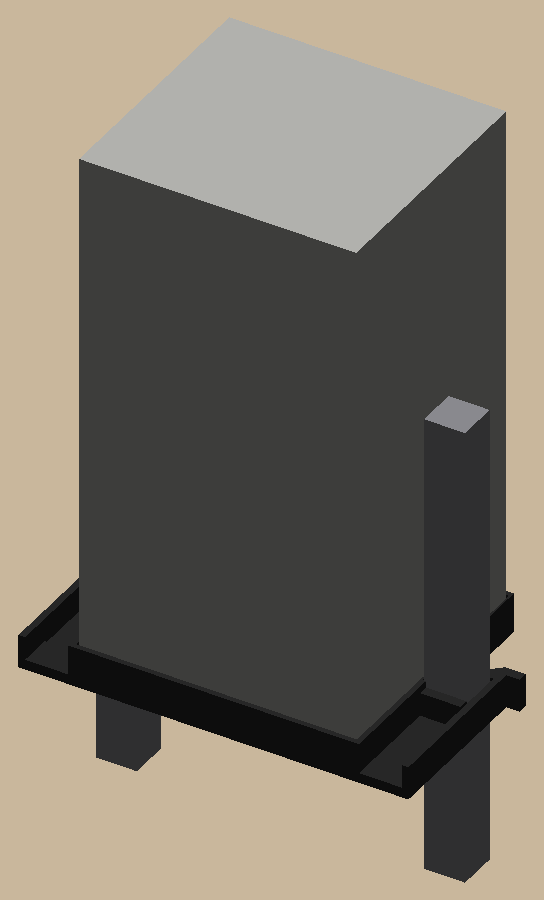
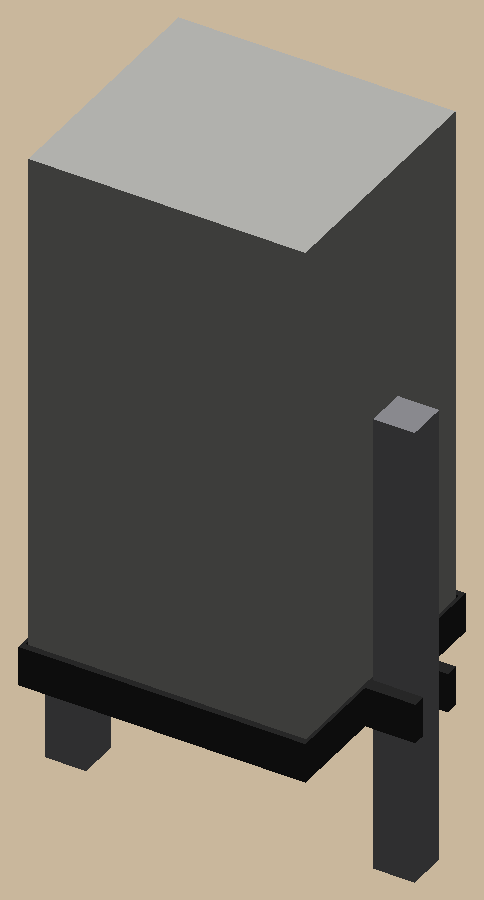
Speaker shelf: just a tray with a U on each side opening out, twisted onto the rails (no arms or hooks)

diff --git a/examples/speaker-shelf/tests/test_shelf.py b/examples/speaker-shelf/tests/test_shelf.py
@@ -1,17 +1,15 @@
-"""The shelf: print rules, the clip sizes, the speaker fit, and the rails going in. Expectations from params."""
+"""The shelf: print rules, the U's, the speaker fit, the rails in the U's. Expectations from params."""
 import pytest
 from build123d import Align, Box, Pos
 
 from cadkit.checks import downward_faces, off_layer_z, open_edges, printable_problems
 from cadkit.clash import find_clashes
 from speaker_shelf.assembly import placed_parts, rail_boxes, speaker_box
-from speaker_shelf.parts import hook_end_y, shelf, shelf_body
-from speaker_shelf.params import P
-
-PLAY = min(P.rail_clear, (P.clip_gap - P.rail_gap) / 2 + P.arm_gap)  # side to side, each way
-REAL_OUTER = P.rail_gap / 2 + P.rail  # the real rails' outer faces
+from speaker_shelf.parts import shelf, shelf_body
+from speaker_shelf.params import P, side_wall
 
 R = P.rail / 2
+MID = P.wall_h / 2 + 0.3  # probe height, clear of the floor
 
 
 @pytest.fixture(scope="module")
@@ -23,12 +21,20 @@ def _box(x0, x1, y0, y1, z0, z1):
     return Pos(x0, y0, z0) * Box(x1 - x0, y1 - y0, z1 - z0, align=(Align.MIN,) * 3)
 
 
+def _pieces(part, probe, axis):
+    return sorted((s.bounding_box() for s in (part & probe).solids()), key=lambda b: getattr(b.min, axis))
+
+
 def test_prints_flat_watertight_on_layers_no_supports():
     part = shelf(P)
     assert printable_problems(part, P.printer) == []
     assert open_edges(part) == 0
     assert off_layer_z(part, P.printer) == []
-    assert [f for f in downward_faces(part) if f.center().Z > 0.01] == []
+    assert [z for z, _ in downward_faces(part) if z > 0.01] == []
+
+
+def test_side_walls_print_at_least_two_lines():
+    assert side_wall(P) >= 2 * P.printer.nozzle
 
 
 def test_nothing_clashes_rails_speaker_shelf():
@@ -36,87 +42,47 @@ def test_nothing_clashes_rails_speaker_shelf():
 
 
 def test_too_big_a_rail_clashes():
-    """The clash test can fail: a rail 0.5 mm fatter than the clip runs into the jaw and the hook."""
-    fat = rail_boxes(P, extra=0.5)
-    assert find_clashes([("shelf", shelf_body(P))] + fat) != []
-
-
-@pytest.mark.parametrize("shift", [PLAY, -PLAY])
-def test_shelf_slides_side_to_side_within_its_play(shift):
-    assert find_clashes([("shelf", Pos(shift, 0, 0) * shelf_body(P))] + rail_boxes(P)) == []
-
-
-@pytest.mark.parametrize("shift", [PLAY + 0.3, -PLAY - 0.3])
-def test_play_is_no_more_than_that(shift):
-    assert find_clashes([("shelf", Pos(shift, 0, 0) * shelf_body(P))] + rail_boxes(P)) != []
-
-
-def test_clips_have_about_a_millimetre_of_play():
-    assert (P.clip_gap - P.rail_gap) / 2 == pytest.approx(1.0)
-    assert P.arm_gap + (P.clip_gap - P.rail_gap) / 2 >= P.rail_clear  # the floor stops it before an arm would
+    """The clash test can fail: a rail 0.5 mm fatter than the U runs into it."""
+    assert find_clashes([("shelf", shelf_body(P))] + rail_boxes(P, extra=0.5)) != []
 
 
 @pytest.mark.parametrize("side", [1, -1])
-def test_jaw_to_hook_is_the_fit_tested_size(body, side):
-    """Along y through the clip, between the front jaw and the hook: exactly p.rail of air."""
-    x = side * (REAL_OUTER - 1)
-    probe = _box(x - 0.05, x + 0.05, -R - P.jaw_t - 1, R + 3, P.clip_h / 2, P.clip_h / 2 + 0.1)
-    pieces = sorted((s.bounding_box() for s in (body & probe).solids()), key=lambda b: b.min.Y)
+def test_u_is_the_fit_tested_size(body, side):
+    """Across the U, front to back, at the middle of the rail: p.rail of air between the prongs."""
+    x = side * (P.rail_gap / 2 + P.rail_deep / 2)
+    pieces = _pieces(body, _box(x - 0.05, x + 0.05, -20, 20, MID, MID + 0.1), "Y")
     assert len(pieces) == 2
     assert pieces[1].min.Y - pieces[0].max.Y == pytest.approx(P.rail, abs=0.01)
 
 
+def test_u_bottoms_are_the_rail_gap_apart(body):
+    """Along x through the rails' line: the tray's side faces (the U bottoms) span exactly rail_gap."""
+    pieces = _pieces(body, _box(-80, 80, -0.05, 0.05, MID, MID + 0.1), "X")
+    assert pieces[0].min.X == pytest.approx(-P.rail_gap / 2, abs=0.01)
+    assert pieces[-1].max.X == pytest.approx(P.rail_gap / 2, abs=0.01)
+
+
 @pytest.mark.parametrize("side", [1, -1])
-def test_hook_reaches_behind_the_real_rail(body, side):
-    xo = REAL_OUTER
-    behind = _box(min(side * xo, side * (xo - P.rail)), max(side * xo, side * (xo - P.rail)), R, R + 0.5, 0, P.clip_h)
-    covered = (body & behind).bounding_box()
-    assert covered.size.X == pytest.approx(P.hook_depth - (P.clip_gap - P.rail_gap) / 2, abs=0.01)
-    assert covered.size.X - PLAY >= 3.5  # still a good bite with the shelf shifted away
+def test_prongs_reach_past_the_rail(body, side):
+    reach = abs(body.bounding_box().max.X if side > 0 else body.bounding_box().min.X)
+    assert reach == pytest.approx(P.rail_gap / 2 + P.rail_deep + P.prong_reach, abs=0.01)
+
+
+@pytest.mark.parametrize("side", [1, -1])
+def test_u_opens_outward(body, side):
+    """Nothing closes the U on its outer side: a rail-sized box from the rail out to beyond the prongs is all air."""
+    x0 = P.rail_gap / 2
+    lane = _box(x0, x0 + 40, -R, R, -1, 30) if side > 0 else _box(-x0 - 40, -x0, -R, R, -1, 30)
+    assert (body & lane).volume == pytest.approx(0, abs=1e-6)
 
 
 def test_pocket_fits_the_speaker_with_clearance(body):
-    """A probe across the pocket at mid-wall height: the air is the speaker plus clearance both ways."""
-    z = (P.floor_t + P.wall_h) / 2
-    cy = -P.speaker_d / 3  # in front of the rails, where the pocket has side walls
-    across = sorted((s.bounding_box() for s in (body & _box(-60, 60, cy - 0.05, cy + 0.05, z, z + 0.1)).solids()),
-                    key=lambda b: b.min.X)
-    inner = [b for b in across if abs(b.center().X) < P.rail_gap / 2]
-    assert inner[1].min.X - inner[0].max.X == pytest.approx(P.speaker_w + 2 * P.speaker_clear, abs=0.01)
-    deep = sorted((s.bounding_box() for s in (body & _box(-0.05, 0.05, -90, 90, z, z + 0.1)).solids()),
-                  key=lambda b: b.min.Y)
+    across = _pieces(body, _box(-60, 60, -P.speaker_d / 3, -P.speaker_d / 3 + 0.1, MID, MID + 0.1), "X")
+    assert across[1].min.X - across[0].max.X == pytest.approx(P.speaker_w + 2 * P.speaker_clear, abs=0.01)
+    deep = _pieces(body, _box(-0.05, 0.05, -90, 90, MID, MID + 0.1), "Y")
     assert deep[1].min.Y - deep[0].max.Y == pytest.approx(P.speaker_d + 2 * P.speaker_clear, abs=0.01)
 
 
-def test_rails_slide_in_from_the_back_touching_only_the_hooks(body):
-    """Install: the shelf is pushed on from the front, so each rail travels from behind to y = 0.
-    Along that path it meets nothing but the hooks (which the arms swing out of the way)."""
-    for side in (1, -1):
-        xo = REAL_OUTER
-        x0, x1 = sorted((side * (xo - P.rail), side * xo))
-        hit = body & _box(x0, x1, -R, 60, -1, 30)
-        assert hit.volume > 0
-        bb = hit.bounding_box()
-        assert bb.min.Y >= R - 1e-6 and bb.max.Y <= hook_end_y(P) + 1e-6
-
-
-def test_hooks_lead_in_at_45_degrees_or_shallower():
-    assert P.hook_tip + P.hook_depth == pytest.approx(hook_end_y(P) - R)
-
-
-def test_arm_bends_within_pla_strain_when_snapping_on():
-    """Cantilever tip deflection hook_depth: strain 3 t d / (2 L^2) stays under 1% (PLA yields near 2-3%)."""
-    assert 3 * P.arm_t * (P.hook_depth + P.arm_gap) / (2 * P.arm_free ** 2) < 0.01
-
-
-def test_speaker_stays_centered_between_the_rails():
-    """Centered both ways on the rails, and the floor between them clears the speaker and the rails."""
+def test_speaker_centered_on_the_rails():
     c = speaker_box(P).bounding_box().center()
     assert (c.X, c.Y) == pytest.approx((0, 0), abs=1e-6)
-    assert P.speaker_w / 2 + P.speaker_clear < P.rail_gap / 2 - P.rail_clear
-
-
-def test_arm_root_is_long_enough():
-    """The arm's fused root, from the shelf's front edge to where it starts to flex."""
-    front = -P.speaker_d / 2 - P.speaker_clear - P.wall
-    assert (hook_end_y(P) - P.arm_free) - front >= P.arm_root

diff --git a/examples/speaker-shelf/speaker_shelf/parts.py b/examples/speaker-shelf/speaker_shelf/parts.py
@@ -1,7 +1,7 @@
 """Parts in PRINT orientation: flat on Z = 0."""
 from build123d import Align, Part, Plane, Pos, Sketch, Text, extrude, mirror
 
-from cadkit.shapes import poly, rect
+from cadkit.shapes import rect
 from speaker_shelf.params import P, Params
 
 
@@ -44,51 +44,20 @@ def gap_gauge(p: Params = P) -> Part:
     return out
 
 
-# The shelf, in the rail frame: rails centered on y = 0, their inner faces ±rail_gap / 2 apart; the speaker centered
-# on the rail line, its middle between the rails. You push it on from the front: each rail slides in from behind,
-# past a hook on a flexing arm, which snaps behind it. The arms sit as if the rails were clip_gap apart.
-
-
-def rail_outer_x(p: Params) -> float:
-    """Where the clip expects each rail's outer face (from clip_gap, not the real gap)."""
-    return p.clip_gap / 2 + p.rail
-
-
-def hook_end_y(p: Params) -> float:
-    """The back end of each arm: the hook's tip, then a 45-degree lead-in as deep as the hook."""
-    return p.rail / 2 + p.hook_tip + p.hook_depth
-
-
-def _clip_side(p: Params) -> tuple[list, list]:
-    """The +x clip as (floor, clip-height) sketches; the -x one is its mirror."""
-    r, xo = p.rail / 2, rail_outer_x(p)
-    ox = p.speaker_w / 2 + p.speaker_clear + p.wall  # pocket outside
-    front = -p.speaker_d / 2 - p.speaker_clear - p.wall
-    xa = xo + p.arm_gap  # arm inner face
-    y_end = hook_end_y(p)
-    root_y = y_end - p.arm_free
-    floor = [rect(ox - 1, xa - p.arm_slot, front, -r),  # wing in front of the rail
-             rect(ox - 1, xa + p.arm_t, front, root_y)]  # the arm's root
-    clip = [rect(ox - 1, xa - p.arm_slot, -r - p.jaw_t, -r),  # front jaw
-            rect(xa, xa + p.arm_t, front, y_end),  # arm
-            poly((xo - p.hook_depth, r), (xa + p.arm_t, r), (xa + p.arm_t, y_end), (xo, y_end),
-                 (xo - p.hook_depth, r + p.hook_tip)),  # hook, lead-in on its back
-            rect(xa + p.arm_t - 1, xa + p.arm_t + p.tab, y_end - p.tab_w, y_end)]  # finger tab
-    return floor, clip
+# The shelf, in the rail frame: rails centered on y = 0, their inner faces ±rail_gap / 2; the speaker centered.
+# A rectangular tray exactly rail_gap wide, with a U on each side opening outward: the tray's side is the U's bottom.
 
 
 def shelf_body(p: Params = P) -> Part:
-    """The shelf in the rail frame, floor on Z = 0. From the rails' front faces back, the pocket narrows to fit
-    between the rails (the rails are its side walls there) and keeps only its back wall."""
+    """The shelf in the rail frame, floor on Z = 0."""
     px, py = p.speaker_w / 2 + p.speaker_clear, p.speaker_d / 2 + p.speaker_clear
-    xin = p.rail_gap / 2 - p.rail_clear
-    pocket_out = rect(-px - p.wall, px + p.wall, -py - p.wall, py + p.wall)
-    rail_lanes = [rect(xin, 200, -p.rail / 2, 200), rect(-200, -xin, -p.rail / 2, 200)]  # the rails' way in
-    floor, clip = _clip_side(p)
-    floor_sk = Sketch() + [pocket_out] + floor + [mirror(s, Plane.YZ) for s in floor] - rail_lanes
-    clip_sk = Sketch() + clip + [mirror(s, Plane.YZ) for s in clip]
-    walls_sk = Sketch() + [pocket_out] - [rect(-px, px, -py, py)] - rail_lanes
-    out = extrude(floor_sk, p.floor_t) + extrude(walls_sk, p.wall_h) + extrude(clip_sk, p.clip_h)
+    ox, oy = p.rail_gap / 2, py + p.end_wall
+    r, tip = p.rail / 2, p.rail_gap / 2 + p.rail_deep + p.prong_reach
+    prongs = [rect(ox - 1, tip, r, r + p.prong_t), rect(ox - 1, tip, -r - p.prong_t, -r)]
+    prongs += [mirror(s, Plane.YZ) for s in prongs]
+    tray = rect(-ox, ox, -oy, oy)
+    out = (extrude(Sketch() + [tray], p.floor_t) + extrude(Sketch() + [tray] - [rect(-px, px, -py, py)], p.wall_h)
+           + extrude(Sketch() + prongs, p.wall_h))
     out = Part(out.solids())
     out.label = "speaker_shelf"
     return out

diff --git a/examples/speaker-shelf/speaker_shelf/params.py b/examples/speaker-shelf/speaker_shelf/params.py
@@ -7,30 +7,20 @@ from cadkit import Printer
 @dataclass(frozen=True)
 class Params:
     # The banister, from the fit coupon (docs/measurements.md).
-    rail: float = 12.3  # clip jaw spacing: the fork's 12.4 slot slid on right, the user asked one step tighter
-    rail_gap: float = 86.0  # face to face, the real gap (gap gauge)
-    clip_gap: float = 88.0  # the clip arms sit as if the rails were 88 apart: about 1 mm play each side (user's call)
-    rail_clear: float = 0.5  # floor and walls between the rails to each rail's inner face
+    rail: float = 12.3  # each U, front to back: the fork's 12.4 slot slid on right, the user asked one step tighter
+    rail_deep: float = 12.4  # the rail, inner face to outer face (the fork's fit)
+    rail_gap: float = 86.0  # face to face, the real gap (gap gauge); the U bottoms sit exactly this far apart
 
-    # The speaker and the shelf (rail frame: rails at y = 0, +y toward the back). The speaker sits centered on the
-    # rail line, its middle between the rails, which are its side walls there.
+    # The shelf (rail frame: rails at y = 0, +y toward the back): a rectangular tray, the speaker centered on it, a U
+    # on each side opening outward around a rail. Angle it in between the rails and twist the U's onto them.
     speaker_w: float = 83.0  # along the banister
     speaker_d: float = 75.0
     speaker_clear: float = 0.5  # each side, in the pocket
     floor_t: float = 3.0
-    wall: float = 1.6  # pocket walls (4 lines)
-    wall_h: float = 12.0  # pocket walls, floor included
-    clip_h: float = 10.0  # front jaw, arm and hook
-    jaw_t: float = 3.0  # front jaw, in front of each rail
-    arm_t: float = 2.0  # the flexing arm along each rail's outer face
-    arm_gap: float = 0.1  # arm to rail outer face
-    arm_slot: float = 0.6  # frees the arm from the floor and jaw
-    arm_free: float = 42.0  # flexing length, root to arm end
-    arm_root: float = 8.0  # at least this much of the arm stays fused to the floor
-    hook_depth: float = 5.3  # behind the rail, from the arm's design face: 4.3 on the real rail
-    hook_tip: float = 0.8  # the hook's tip, before its 45-degree lead-in
-    tab: float = 4.0  # finger tab on the arm end, to pull it open
-    tab_w: float = 3.0
+    end_wall: float = 2.0  # front and back walls
+    wall_h: float = 12.0  # walls and U's, floor included
+    prong_t: float = 4.0  # each arm of a U, front and back of the rail
+    prong_reach: float = 2.6  # past the rail's outer face
 
     # Rail fork: push each slot onto a rail; the snug one is the rail's real size.
     fork_slots: tuple = (12.4, 12.6, 12.8, 13.0, 13.2, 13.4, 13.6, 13.8)
@@ -50,7 +40,7 @@ class Params:
     printer: Printer = Printer()
 
     def __post_init__(self):
-        for name in ("fork_h", "gap_h", "floor_t", "wall_h", "clip_h"):
+        for name in ("fork_h", "gap_h", "floor_t", "wall_h"):
             object.__setattr__(self, name, self.printer.snap(getattr(self, name)))
         object.__setattr__(self, "label_depth", self.printer.layers(self.label_depth))
 
@@ -64,3 +54,8 @@ class Params:
 
 
 P = Params()
+
+
+def side_wall(p: Params = P) -> float:
+    """The tray's side walls: from the pocket out to the U bottoms (the tray is exactly rail_gap wide)."""
+    return p.rail_gap / 2 - p.speaker_w / 2 - p.speaker_clear

diff --git a/examples/speaker-shelf/speaker_shelf/assembly.py b/examples/speaker-shelf/speaker_shelf/assembly.py
@@ -9,12 +9,12 @@ SPEAKER_H = 160.0  # shown only; the real one's height doesn't matter
 
 
 def rail_boxes(p: Params = P, extra: float = 0.0) -> list[tuple[str, Box]]:
-    """Both rails, p.rail square (+ extra), centered on y = 0."""
-    s = p.rail + extra
+    """Both rails, rail_deep across by rail front to back (+ extra), centered on y = 0."""
     out = []
     for side, name in ((1, "rail_right"), (-1, "rail_left")):
-        x = side * (p.rail_gap / 2 + p.rail / 2)
-        out.append((name, Pos(x, 0, -RAIL_LEN / 3) * Box(s, s, RAIL_LEN, align=(Align.CENTER, Align.CENTER, Align.MIN))))
+        x = side * (p.rail_gap / 2 + p.rail_deep / 2)
+        out.append((name, Pos(x, 0, -RAIL_LEN / 3) * Box(p.rail_deep + extra, p.rail + extra, RAIL_LEN,
+                                                          align=(Align.CENTER, Align.CENTER, Align.MIN))))
     return out
 
 

diff --git a/examples/speaker-shelf/README.md b/examples/speaker-shelf/README.md
@@ -1,13 +1,14 @@
 # speaker-shelf
 
-A little black shelf that clips onto two banister rails (about 12.4 mm square tubes, 86 mm apart) and holds a vertical
-speaker (base 83 × 75 mm) centered on them both ways: its middle sits between the rails, which are its side walls
-there. No hardware: the clips squeeze each rail front to back (12.3 mm jaws), with about 1 mm of side play.
+A little black shelf for a vertical speaker (base 83 × 75 mm) between two banister rails (about 12.4 mm square, 86 mm
+apart): a rectangular tray, exactly as wide as the gap, with a U on each side opening outward around a rail. The
+speaker sits centered on the rails both ways.
 
 <img src="docs/images/with_speaker.png" width="49%" alt="shelf on two rails with the speaker"> <img src="docs/images/shelf_on_rails.png" width="49%" alt="shelf clipped on two rails">
 
-Print `out/plates/speaker_shelf.3mf` (black, no supports). Push it onto the rails from the front: each hook rides
-over its rail and snaps behind it. Then set the speaker in. To take it off, pull the little tab at the back of each arm outward.
+Print `out/plates/speaker_shelf.3mf` (black, no supports). Hold it at an angle between the rails, twist it level so
+each rail drops into its U, then set the speaker in. The rails' spring holds it; for more grip, raise `rail_gap` in
+`params.py` a little (the tray gets wider and the rails pinch it).
 
 <img src="docs/images/fit_coupon.png" width="49%" alt="fit coupon: rail fork and gap gauge">
 

diff --git a/CLAUDE.md b/CLAUDE.md
@@ -53,9 +53,9 @@
   (package `cat_decals`), drawn in shapely and written as R12 DXF in inches: one of each on a 24 × 24 mat (the user
   duplicates and scales in Studio), a 1" test square because Studio guesses DXF units, ⅛" minimum feature. Its `out/`
   is committed (the cut file).
-- `examples/speaker-shelf/`: a black shelf (package `speaker_shelf`) that snaps onto two 13 mm square banister rails
-  86 mm apart and holds a vertical speaker between them, offset forward so its weight cocks the clips onto the rails;
-  fit coupon (rail fork + gap gauge) first, the shelf after.
+- `examples/speaker-shelf/`: a black tray for a vertical speaker between two banister rails (package `speaker_shelf`):
+  exactly as wide as the 86 mm gap, a U on each side opening out round a rail, twisted into place; fit coupon (rail
+  fork + gap gauge) set the sizes.
 - `examples/grover-keychain/`: a 4-color Grover & Pals logo keychain (package `grover`), traced from the logo's raster
   with the eyes, muzzle, paws, ears and ribbon drawn as smooth curves, the banner's folds and tails sunk 2 and 4
   layers below it; QR + URL on the back, 22 swaps. Its plate's

diff --git a/examples/speaker-shelf/docs/specs/2026-11-07-speaker-shelf.md b/examples/speaker-shelf/docs/specs/2026-11-07-speaker-shelf.md
@@ -22,3 +22,8 @@
   (the rails are its walls, the floor 0.5 clear of them), only its back wall. The arm is shorter and thinner (42 mm,
   2 mm) so its fused root stays at least 8 mm long; the hook is 5.3 deep from the arm, 4.3 on the real rail.
   If it creeps down the rails, the fix is to move the speaker forward again (the first design) or add a pinch screw.
+- 2026-11-07, the user, after the review (the squeeze from 1 mm play and a 0.1 mm hook overlap wouldn't hold, the arm
+  root was overstressed, 0.5 mm wall slivers): "just a rectangle, with a U on both sides pointing out", put in at a
+  diagonal and twisted into place; the rails have lots of play. So no arms or hooks: a tray exactly rail_gap (86)
+  wide, its sides the U bottoms, prongs 4 mm thick front and back of each rail (12.3 apart), reaching 2.6 past the
+  rail, all 12 mm tall. Side walls are 1 mm (gap minus speaker and clearance). Speaker centered both ways.
